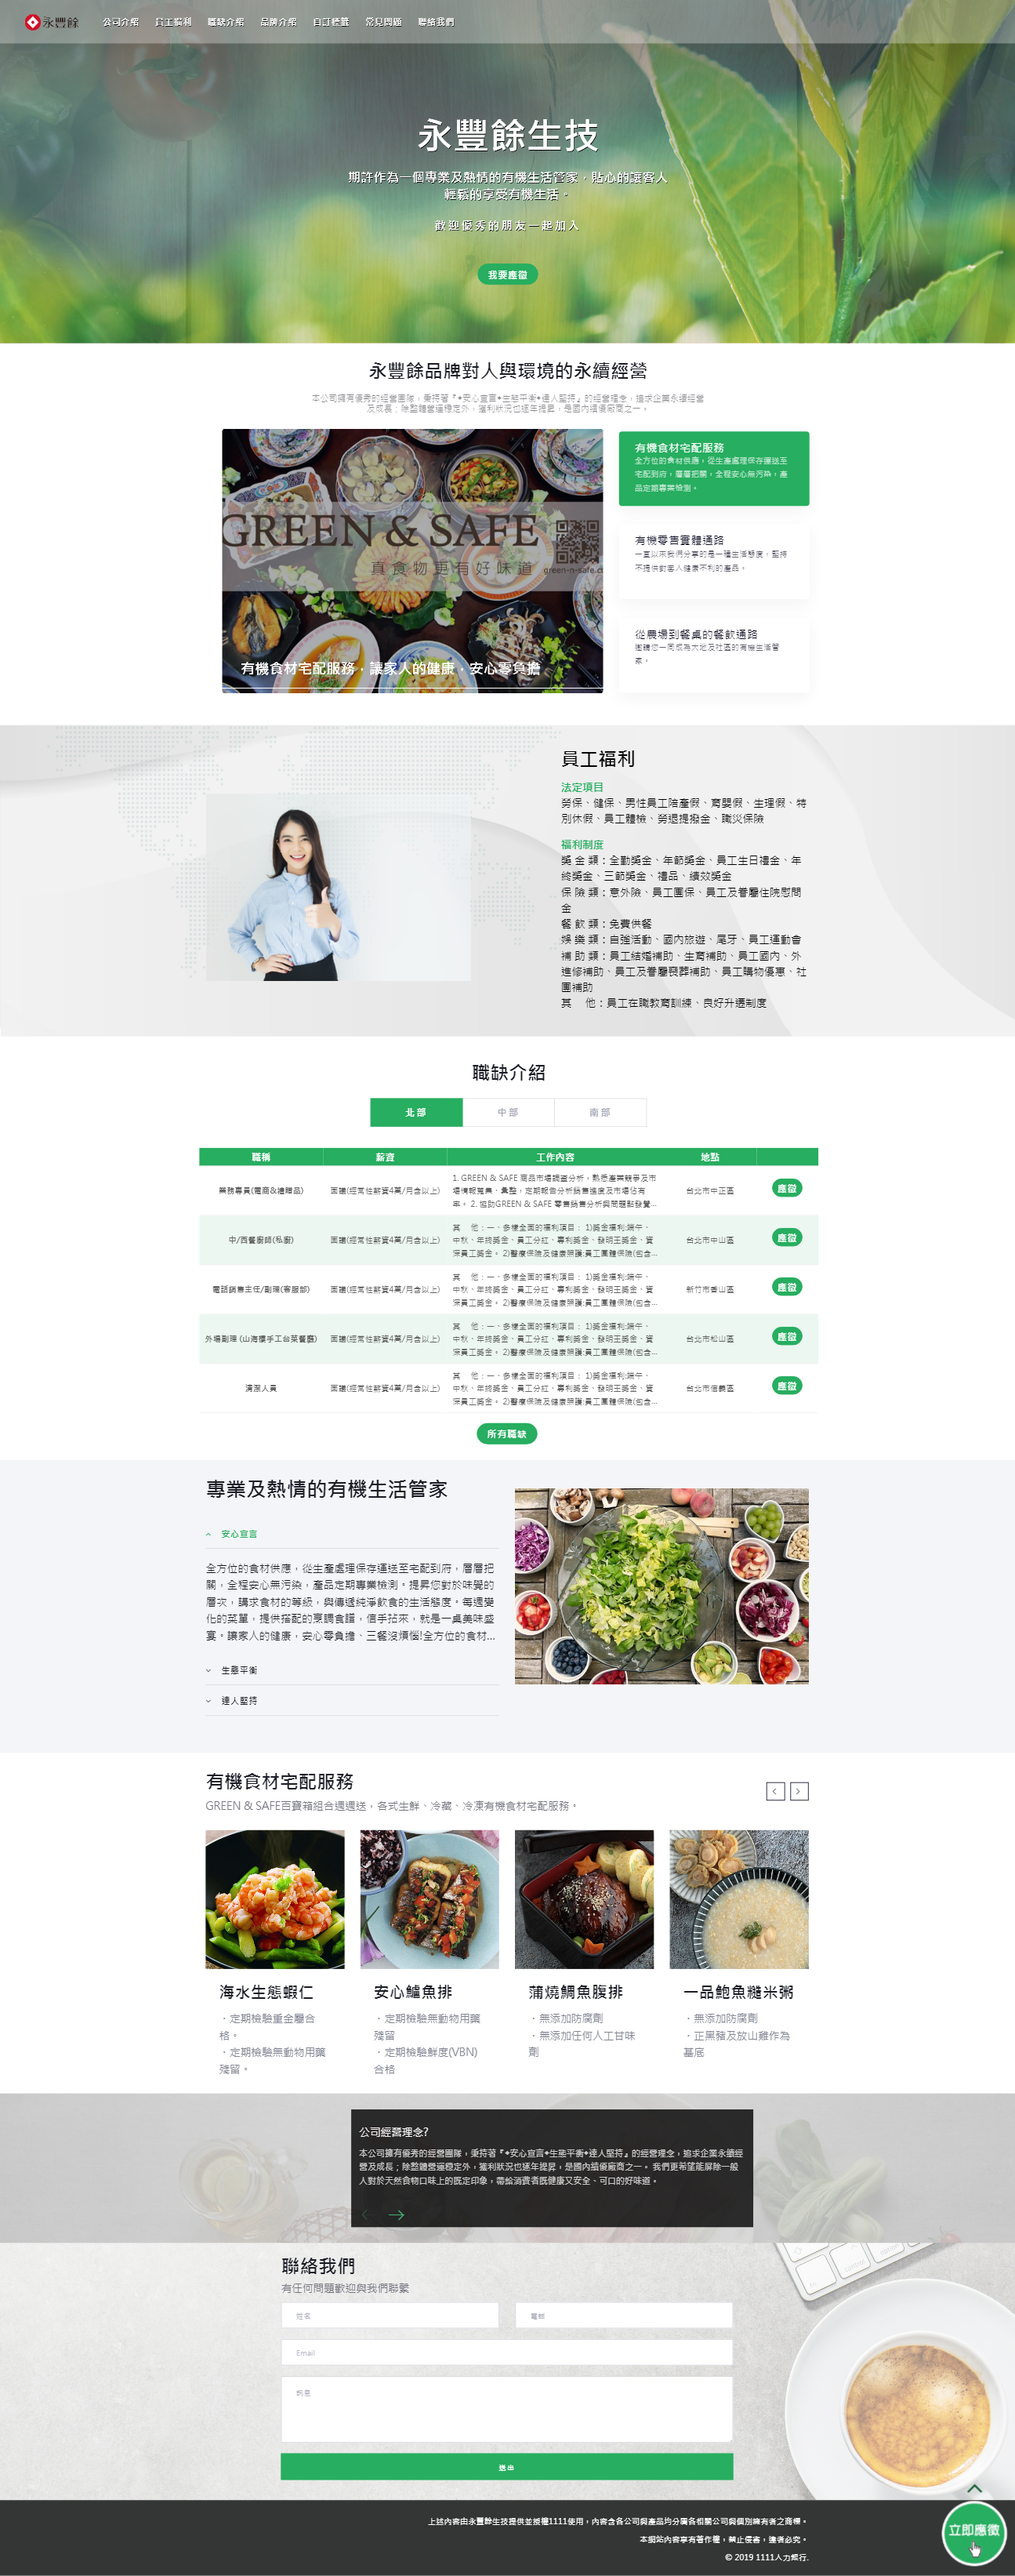
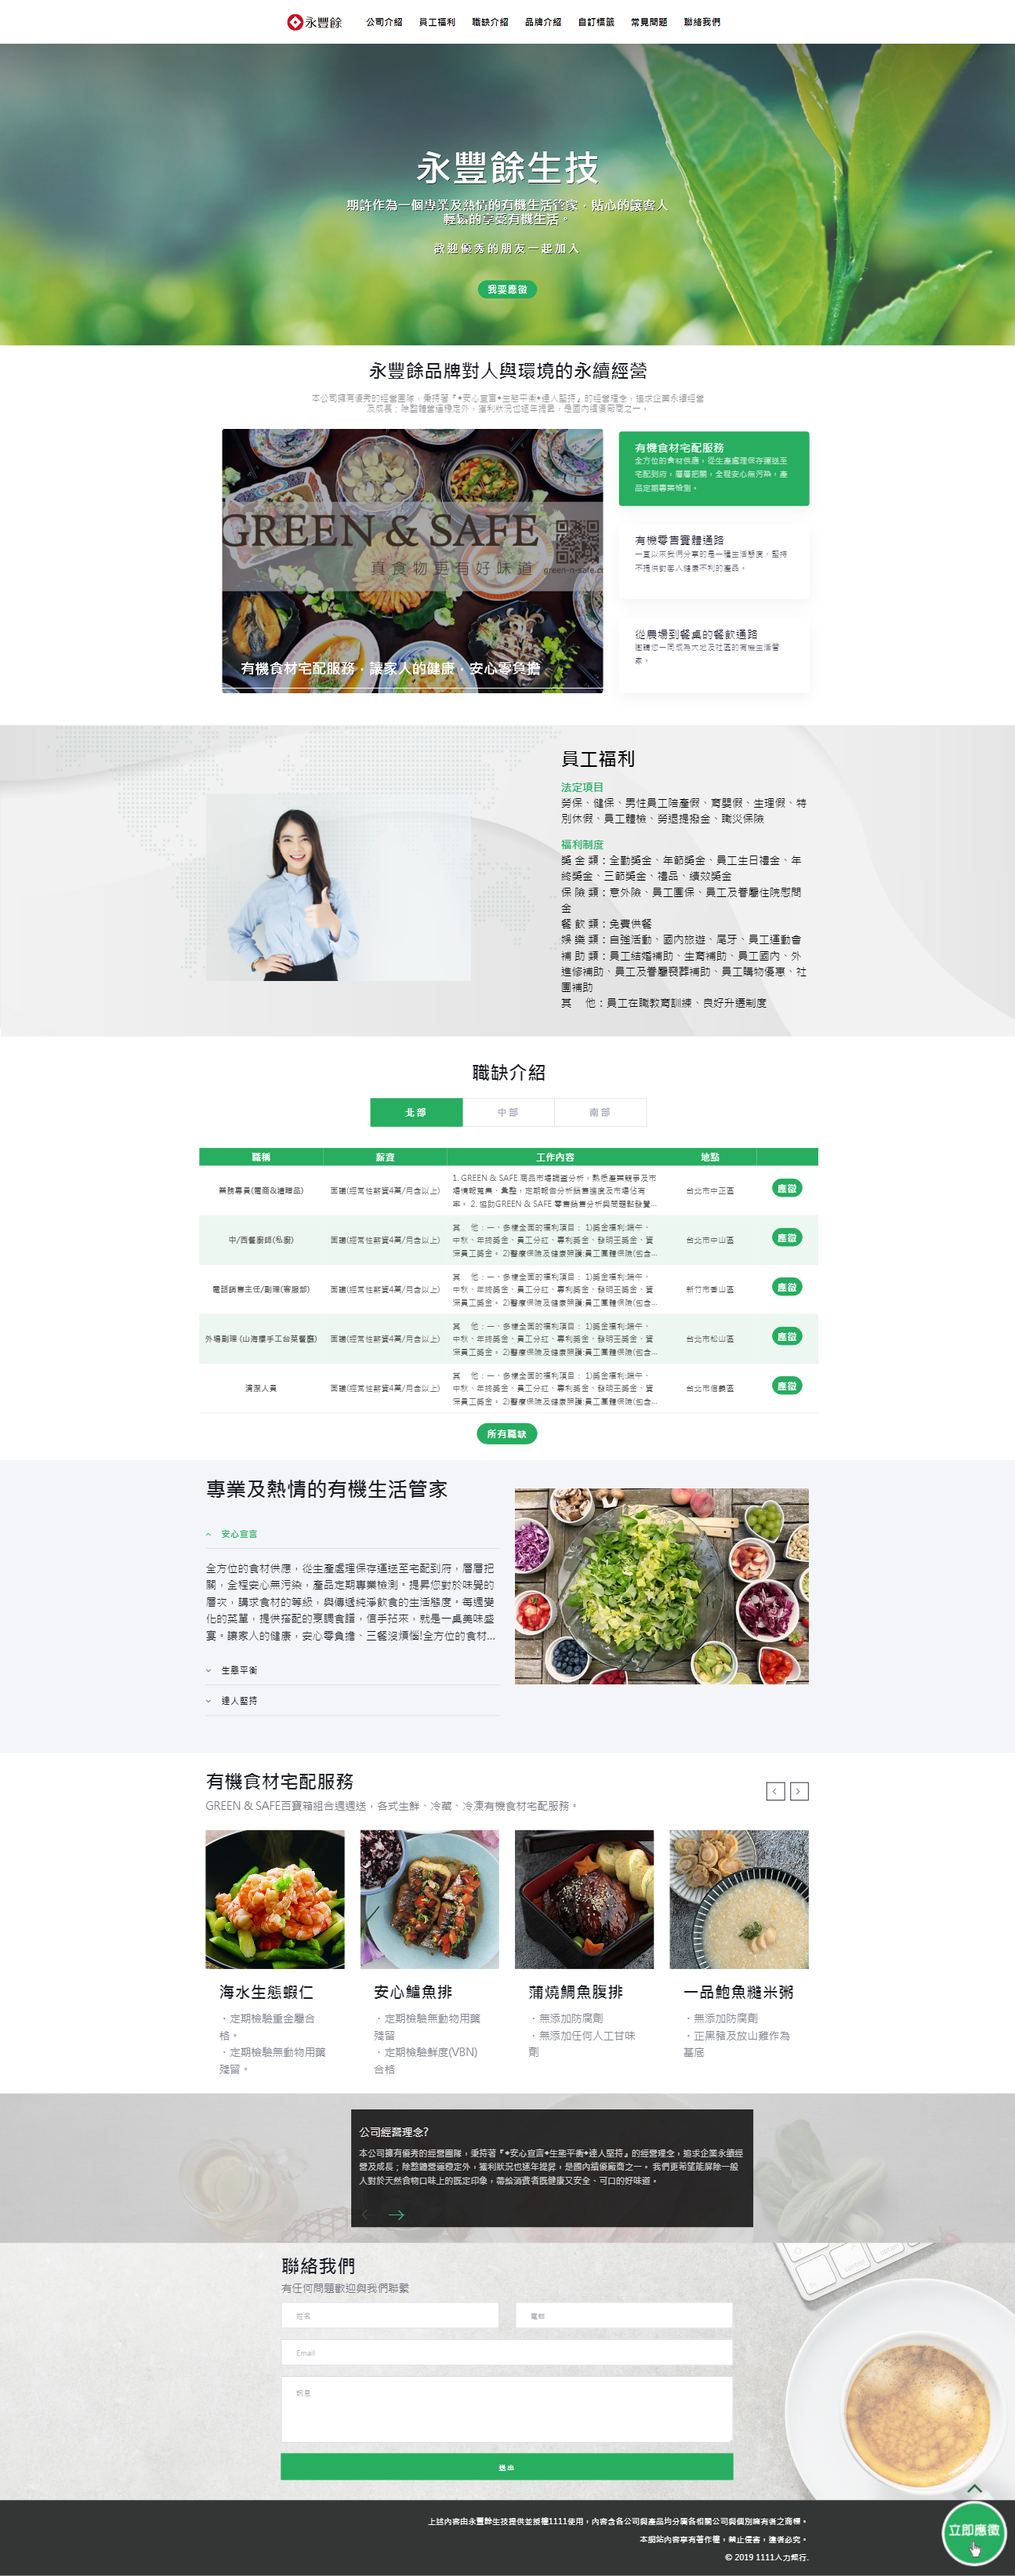
版型一調整

diff --git a/src/components/managerweb/managerTemplate1/managerTamplate1Session2.js b/src/components/managerweb/managerTemplate1/managerTamplate1Session2.js
@@ -228,12 +228,12 @@ class Session2 extends React.Component{
 
                                 <div className="col-md-6 mb-3">
                                     <div className="form-row row-style-w95-pt1">
-                                        <InputText title='主標題' notice='(字數限制為15個字以內)' inputName='introTitle' inputState={introTitle}
-                                           stateObj={this} required={true} checkValue='15' />
+                                        <InputText title='主標題' notice='(字數限制為21個字以內)' inputName='introTitle' inputState={introTitle}
+                                           stateObj={this} required={true} checkValue='21' />
                                     </div>
                                     <div className="form-row row-style-w95-pt1">
-                                        <InputTextArea title='主內容' notice='(字數限制為80個字以內)' inputName='introMainContent' inputState={introMainContent}
-                                           rows='5' stateObj={this} required={true} checkValue='80' />
+                                        <InputTextArea title='主內容' notice='(字數限制為92個字以內)' inputName='introMainContent' inputState={introMainContent}
+                                           rows='4' stateObj={this} required={true} checkValue='92' />
                                     </div>
                                 </div>
 
@@ -255,7 +255,7 @@ class Session2 extends React.Component{
                                             <tr>
                                                 <td>主標題</td>
                                                 <td align='left'>永豐餘品牌對人與環境的永續經營</td>
-                                                <td>15個字以內</td>
+                                                <td>21個字以內</td>
                                                 <td>
                                                     不可空白<br />
                                                     <a type="button" data-toggle="modal" href="#tmp1_company_title">觀看範例圖片</a>
@@ -264,7 +264,7 @@ class Session2 extends React.Component{
                                             <tr>
                                                 <td>主內容</td>
                                                 <td align='left'>本公司擁有優秀的經營團隊，秉持著『◆安心宣言◆生態平衡◆達人堅持』的經營理念，追求企業永續經營及成長；除整體營運穩定外，獲利狀況也逐年提昇，是國內績優廠商之一。</td>
-                                                <td>80個字以內</td>
+                                                <td>92個字以內</td>
                                                 <td>
                                                     不可空白<br />
                                                     <a type="button" data-toggle="modal" href="#tmp1_company_content">觀看範例圖片</a>
@@ -360,8 +360,8 @@ class Session2 extends React.Component{
                                                         stateObj={this} required={true} checkValue='11' />
                                                 </div>
                                                 <div className="form-row row-style-w95-pt1">
-                                                    <InputTextArea title='小標題1內容' notice='(字數限制為55個字以內)' inputName='introSubTitle1Content' inputState={introSubTitle1Content}
-                                                        rows='3' stateObj={this} required={true} checkValue='55' />
+                                                    <InputTextArea title='小標題1內容' notice='(字數限制為38個字以內)' inputName='introSubTitle1Content' inputState={introSubTitle1Content}
+                                                        rows='3' stateObj={this} required={true} checkValue='38' />
                                                 </div>
                                                 <div className="form-row row-style-w95-pt1">
                                                     <InputText title='小標題1圖片文字' notice='(字數限制為20個字以內)' inputName='introSubTitle1ImgText' inputState={introSubTitle1ImgText}
@@ -401,7 +401,7 @@ class Session2 extends React.Component{
                                                             <tr>
                                                                 <td>小標題1 內容</td>
                                                                 <td align='left'>全方位的食材供應，從生產處理保存運送至宅配到府，層層把關，全程安心無污染，產品定期專業檢測。</td>
-                                                                <td>55個字以內</td>
+                                                                <td>38個字以內</td>
                                                                 <td>
                                                                     不可空白<br />
                                                                     <a type="button" data-toggle="modal" href="#temp1_Company_card01_content">觀看範例圖片</a>
@@ -532,8 +532,8 @@ class Session2 extends React.Component{
                                                         stateObj={this} required={true} checkValue='11' />
                                                 </div>
                                                 <div className="form-row row-style-w95-pt1">
-                                                    <InputTextArea title='小標題2內容' notice='(字數限制為55個字以內)' inputName='introSubTitle2Content' inputState={introSubTitle2Content}
-                                                        rows='3' stateObj={this} required={true} checkValue='55' />
+                                                    <InputTextArea title='小標題2內容' notice='(字數限制為38個字以內)' inputName='introSubTitle2Content' inputState={introSubTitle2Content}
+                                                        rows='3' stateObj={this} required={true} checkValue='38' />
                                                 </div>
                                                 <div className="form-row row-style-w95-pt1">
                                                     <InputText title='小標題2圖片文字' notice='(字數限制為20個字以內)' inputName='introSubTitle2ImgText' inputState={introSubTitle2ImgText}
@@ -572,7 +572,7 @@ class Session2 extends React.Component{
                                                             <tr>
                                                                 <td>小標題2 內容</td>
                                                                 <td align='left'>一直以來我們分享的是一種生活態度，堅持不提供對客人健康不利的產品。</td>
-                                                                <td>55個字以內</td>
+                                                                <td>38個字以內</td>
                                                                 <td>
                                                                     不可空白<br />
                                                                     <a type="button" data-toggle="modal" href="#temp1_Company_card02_content">觀看範例圖片</a>
@@ -705,8 +705,8 @@ class Session2 extends React.Component{
                                                         stateObj={this} required={true} checkValue='11' />
                                                 </div>
                                                 <div className="form-row row-style-w95-pt1">
-                                                    <InputTextArea title='小標題3內容' notice='(字數限制為55個字以內)' inputName='introSubTitle3Content' inputState={introSubTitle3Content}
-                                                        rows='3' stateObj={this} required={true} checkValue='55' />
+                                                    <InputTextArea title='小標題3內容' notice='(字數限制為38個字以內)' inputName='introSubTitle3Content' inputState={introSubTitle3Content}
+                                                        rows='3' stateObj={this} required={true} checkValue='38' />
                                                 </div>
                                                 <div className="form-row row-style-w95-pt1">
                                                     <InputText title='小標題3圖片文字' notice='(字數限制為20個字以內)' inputName='introSubTitle3ImgText' inputState={introSubTitle3ImgText}
@@ -745,7 +745,7 @@ class Session2 extends React.Component{
                                                             <tr>
                                                                 <td>小標題3 內容</td>
                                                                 <td align='left'>邀請您一同成為大地及社區的有機生活管家。</td>
-                                                                <td>55個字以內</td>
+                                                                <td>38個字以內</td>
                                                                 <td>
                                                                     不可空白<br />
                                                                     <a type="button" data-toggle="modal" href="#temp1_Company_card03_content">觀看範例圖片</a>

diff --git a/src/components/managerweb/managerTemplate1/managerTamplate1Session1.js b/src/components/managerweb/managerTemplate1/managerTamplate1Session1.js
@@ -137,16 +137,16 @@ class Session1 extends React.Component{
                                     <input type="hidden" id="themeNum" value={themeNum} />
                                     <div align="left"><label><span className='text-danger'>*</span><em className='text-primary'>為必填欄位</em> </label></div>
                                     <div className="form-row row-style-w95-pt1">
-                                        <InputText title='大標題' notice='(字數限制為5個字以內)' inputName='title' inputState={title}
-                                           stateObj={this} required={true} checkValue='5' />
+                                        <InputText title='大標題' notice='(字數限制為12個字以內)' inputName='title' inputState={title}
+                                           stateObj={this} required={true} checkValue='12' />
                                     </div>
                                     <div className="form-row row-style-w95-pt1">
-                                        <InputTextArea title='副標題 1' notice='(字數限制為40個字以內)' inputName='companySubTitle1' inputState={companySubTitle1}
-                                           rows='3' stateObj={this} required={true} checkValue='40' />
+                                        <InputTextArea title='副標題 1' notice='(字數限制為50個字以內)' inputName='companySubTitle1' inputState={companySubTitle1}
+                                           rows='2' stateObj={this} required={true} checkValue='50' />
                                     </div>
                                     <div className="form-row row-style-w95-pt1">
-                                        <InputTextArea title='副標題 2' notice='(字數限制為15個字以內)' inputName='companySubTitle2' inputState={companySubTitle2}
-                                           rows='2' stateObj={this} required={true} checkValue='15' />
+                                        <InputTextArea title='副標題 2' notice='(字數限制為36個字以內)' inputName='companySubTitle2' inputState={companySubTitle2}
+                                           rows='2' stateObj={this} required={true} checkValue='36' />
                                     </div>
                                     <div className="form-row row-style-w95-pt1">
                                         <ImgUpload title='背景圖片1' notice='(圖檔尺寸大小為 1920*1200 ，接受格式為png、jpg)' objName='companyBackgroundImg1'  imgUpload={companyBackgroundImg1Upload} imgFileName={companyBackgroundImg1} 
@@ -185,7 +185,7 @@ class Session1 extends React.Component{
                                             <tr>
                                                 <td>大標題</td>
                                                 <td align='left'>永豐餘生技</td>
-                                                <td>5個字以內</td>
+                                                <td>12個字以內</td>
                                                 <td>
                                                     不可空白<br />
                                                     <a type="button" data-toggle="modal" href="#tmp1_banner_title">觀看範例圖片</a>
@@ -194,7 +194,7 @@ class Session1 extends React.Component{
                                             <tr>
                                                 <td>副標題1</td>
                                                 <td align='left'>期許作為一個專業及熱情的有機生活管家，貼心的讓客人輕鬆的享受有機生活。</td>
-                                                <td>40個字以內</td>
+                                                <td>50個字以內</td>
                                                 <td>
                                                     不可空白<br />
                                                     <a type="button" data-toggle="modal" href="#tmp1_banner_subtitle_01">觀看範例圖片</a>
@@ -203,7 +203,7 @@ class Session1 extends React.Component{
                                             <tr>
                                                 <td>副標題2</td>
                                                 <td align='left'>歡迎優秀的朋友一起加入</td>
-                                                <td>15個字以內</td>
+                                                <td>36個字以內</td>
                                                 <td>
                                                     不可空白<br />
                                                     <a type="button" data-toggle="modal" href="#tmp1_banner_subtitle_02">觀看範例圖片</a>
@@ -212,7 +212,7 @@ class Session1 extends React.Component{
                                             <tr>
                                                 <td>背景圖</td>
                                                 <td>寬、高(px)</td>
-                                                <td>1920*1080</td>
+                                                <td>1920*1200</td>
                                                 <td align='left'>
                                                     <ul>
                                                         <li>接受格式為png、jpg</li>

diff --git a/src/components/customerweb/tp01/session1new.js b/src/components/customerweb/tp01/session1new.js
@@ -55,7 +55,7 @@ class CompanyTitle extends React.Component{
                             <div className="container">
                                 <div className="row">
                 
-                                    <div className="lqd-column col-md-10 col-md-offset-1 text-center py-7" data-custom-animations="true" data-ca-options='{"triggerHandler":"inview","animationTarget":"all-childs","duration":"1200","delay":"150","easing":"easeOutQuint","direction":"forward","initValues":{"translateY":31,"translateZ":-108,"opacity":0},"animations":{"translateY":0,"translateZ":0,"opacity":1}}'>
+                                    <div className="lqd-column col-md-10 col-md-offset-1 text-center pt-30_percent" data-custom-animations="true" data-ca-options='{"triggerHandler":"inview","animationTarget":"all-childs","duration":"1200","delay":"150","easing":"easeOutQuint","direction":"forward","initValues":{"translateY":31,"translateZ":-108,"opacity":0},"animations":{"translateY":0,"translateZ":0,"opacity":1}}'>
                 
                                         <header className="fancy-title pt-3">
                                             <h6 className="text-white lh-15 mb-4"><span className="font-size-3-3x lh-1 font-weight-bold text-shodow line-1">{title}</span></h6>

diff --git a/public/assets/tp01/css/style.css b/public/assets/tp01/css/style.css
@@ -725,3 +725,25 @@ h6 {
     justify-content: center;
   }
 }
+
+.pt-30_percent{
+  padding-top: 20%;
+}
+
+@media screen and (max-width: 1440px){
+  .pt-30_percent{
+    padding-top: 15%;
+  }
+}
+
+@media screen and (max-width: 1024px){
+  .pt-30_percent{
+    padding-top: 10%;
+  }
+}
+
+@media screen and (max-width: 768px){
+  .pt-30_percent{
+    padding-top: 20%;
+  }
+}
